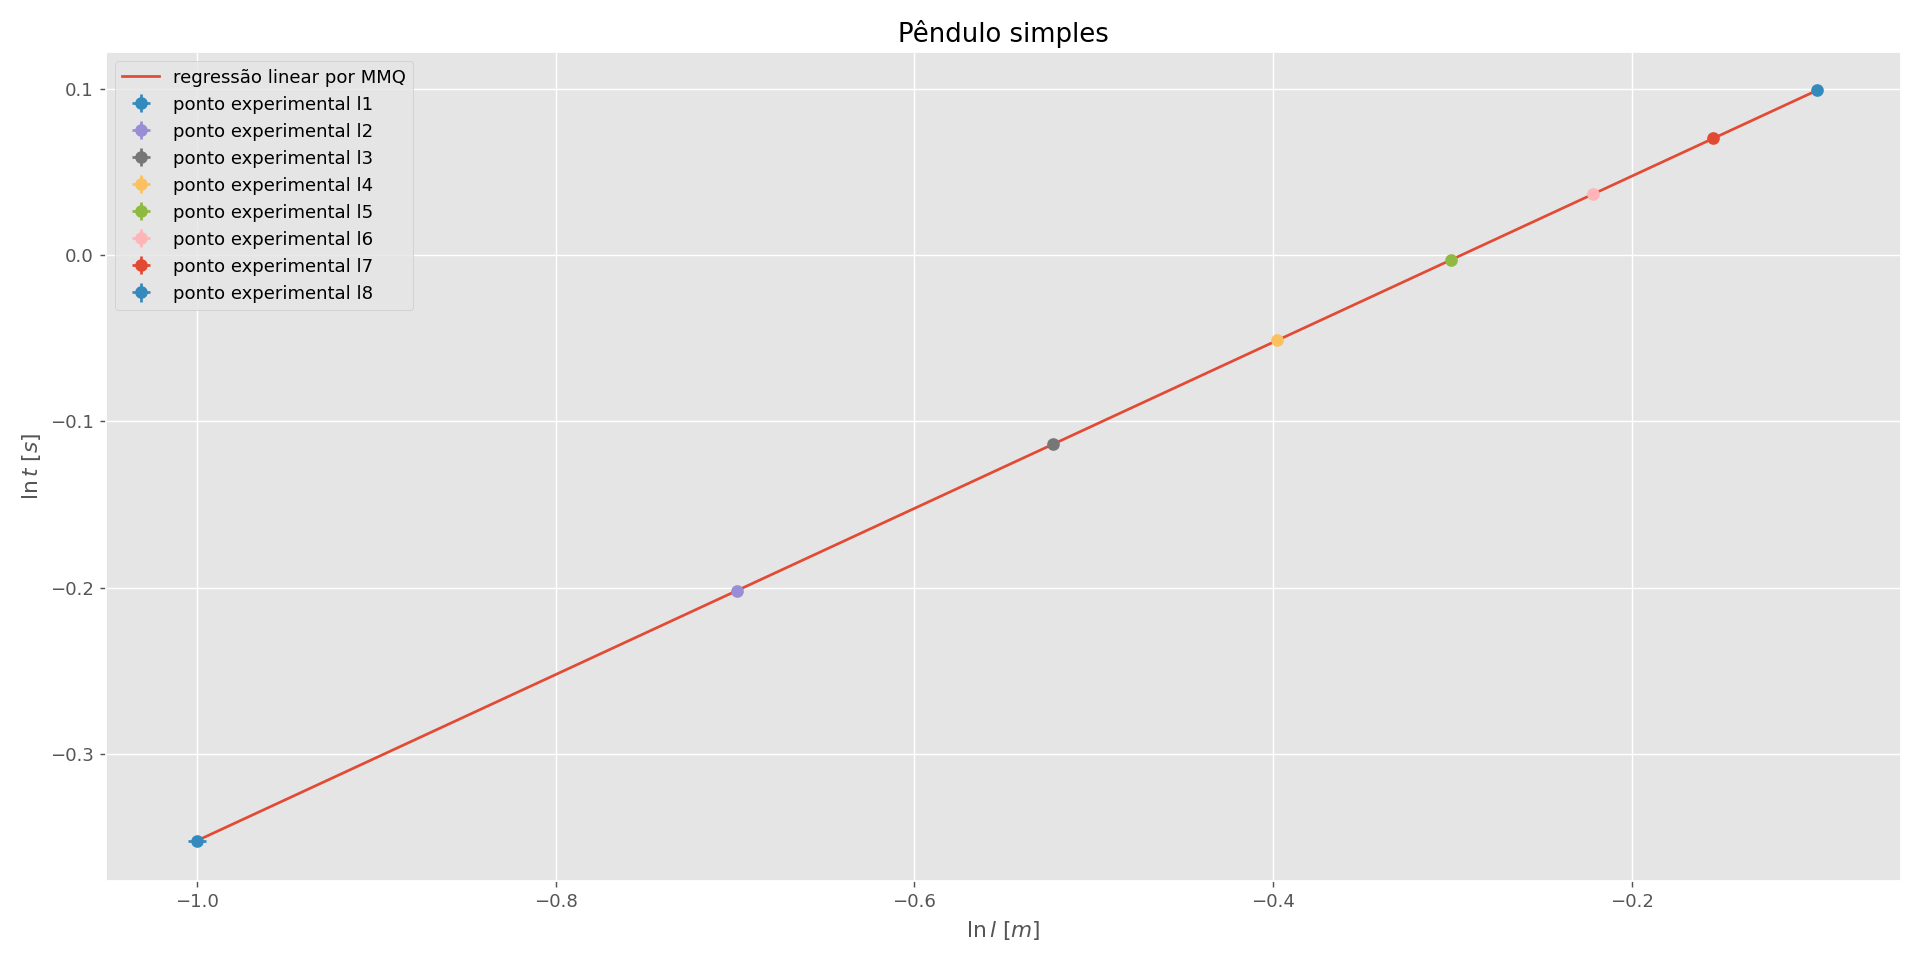
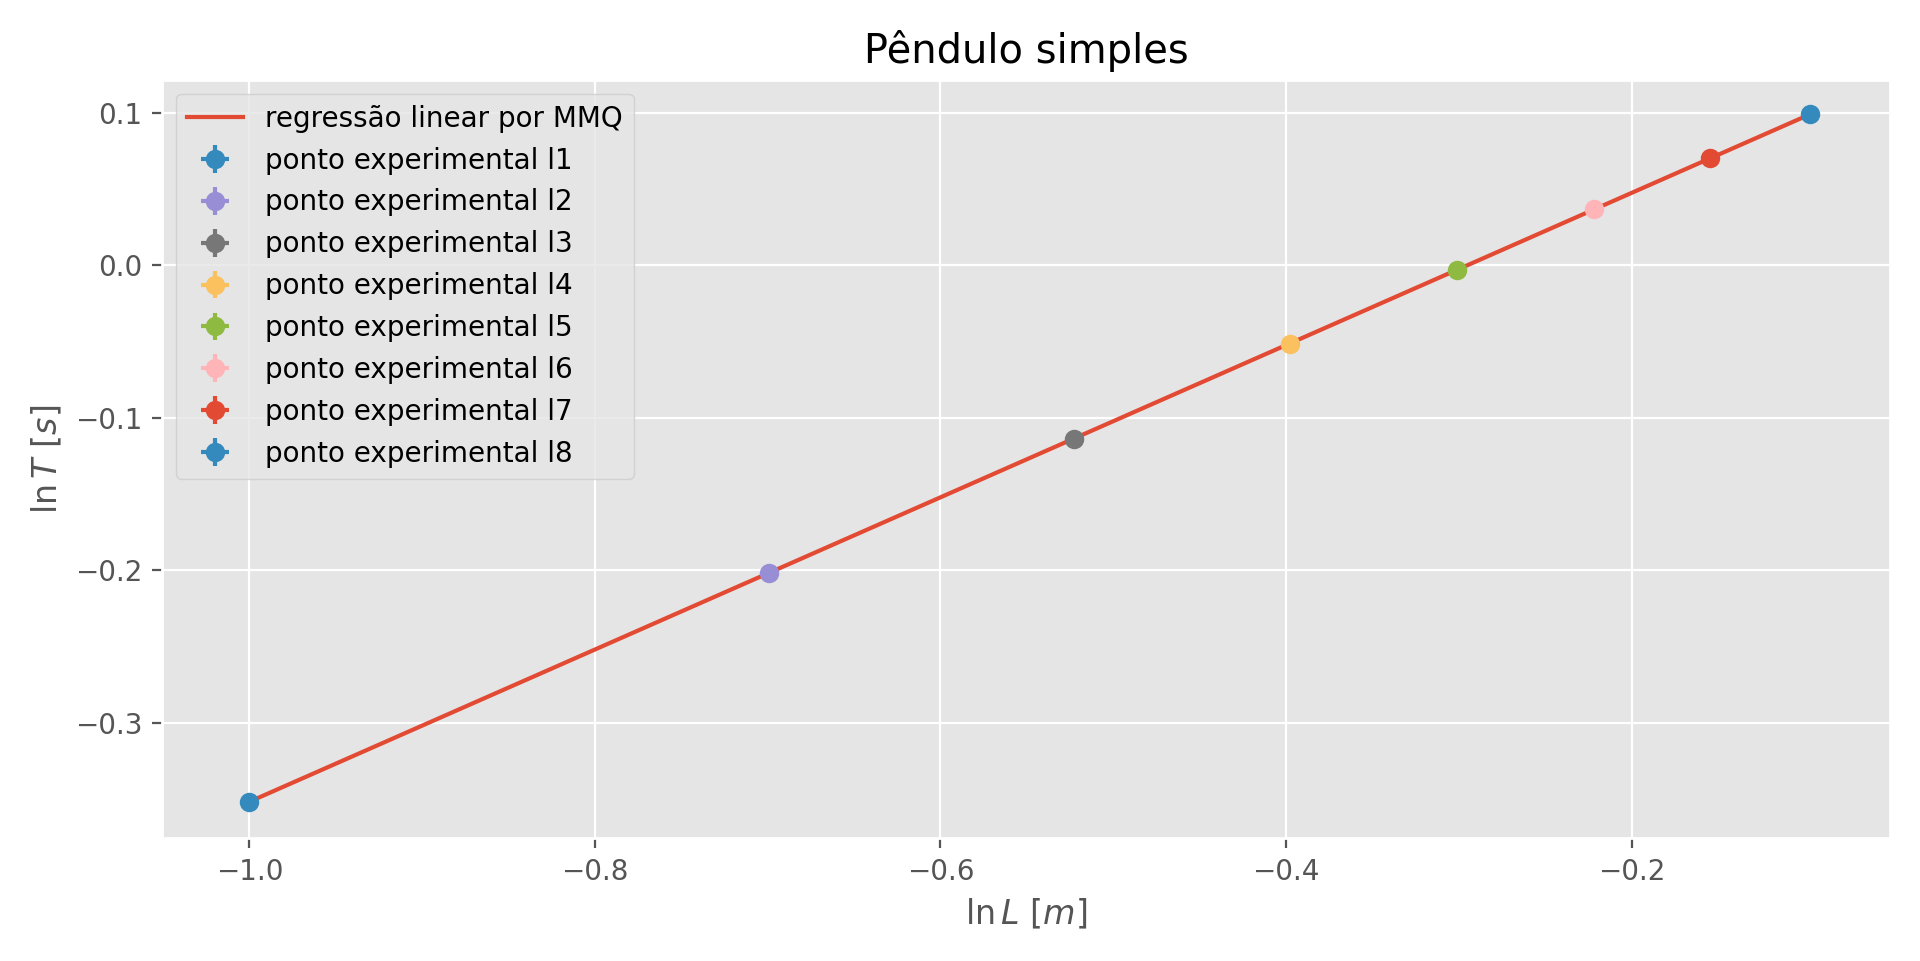
gráficos para a prova1

diff --git a/prova1/prova1.py b/prova1/prova1.py
@@ -5,10 +5,7 @@ import numpy as np
 import pandas as pd
 import matplotlib.pylab as plt
 ######################################################
-# ELISA RODRIGUES DE SOUSA COUTINHO - 11811FMD021
 # RICARDO TADEU OLIVEIRA CATTA PRETA - 11911FMT028
-# ROGÉRIO BUSO DE ANDRADE - 12011FMT009
-# THAYNÁ CAROLINE SABINO DE ASSUMPÇÃO - 11811FMD013
 # Laboratório de Física Básica 2
 # ------------Pêndulo simples------------------------------
 #######################################################
@@ -16,7 +13,7 @@ import matplotlib.pylab as plt
 # Importa os dados coletados do experimento com uma mola, considerando a primeira massa
 pendulo = pd.read_csv("pendulo_prova.csv", keep_default_na=True) #importa a lista de dados
 
-def mola_serie():
+def graficos_pendulo():
     """
     Função para plotar os gráficos do tempo em função da massa, juntamente com 
     seus valores linearizados.
@@ -54,8 +51,8 @@ def mola_serie():
     print("l_ea = ", l_ea)
 
     #linearizando os resultados
-    ln_t = np.log10(t)
-    ln_l = np.log10(l)
+    ln_t = np.log(t)
+    ln_l = np.log(l)
     print("ln_l = \n", ln_l)
     print("ln_t = \n", ln_t)
     print("ln_t*ln_l = \n", ln_t*ln_l)
@@ -114,21 +111,21 @@ def mola_serie():
     print("\n propaga_inc_l7 = ", propaga_inc_l7)
 
     plt.style.use('ggplot')
-    fig = plt.figure(dpi=130)
+    fig = plt.figure(dpi=200)
     axes1 = fig.add_subplot(1, 1, 1)
-    axes1.set_ylabel('$\ln{t}$ $[s]$')
-    axes1.set_xlabel('$\ln{l}$ $[m]$')
-    #axes1.set_ylabel('${t}$ $[s]$')
-    #axes1.set_xlabel('${l}$ $[m]$')
+    #axes1.set_ylabel('$\ln{T}$ $[s]$')
+    #axes1.set_xlabel('$\ln{L}$ $[m]$')
+    axes1.set_ylabel('${T}$ $[s]$')
+    axes1.set_xlabel('${L}$ $[m]$')
     #plt.plot(l, t, '-', label="L x T")
-    plt.plot(ln_l, y1, '-', label="regressão linear por MMQ")
+    #plt.plot(ln_l, y1, '-', label="regressão linear por MMQ")
     #Coloca a barra de erro%
     ls = ''
 
     #print("\n incerteza de m = \n", sm.sigma_m(erro_asso_t ,ln_m))
     #print("\n incerteza de b = \n", sm.sigma_b(erro_asso_t ,ln_m))
 
-    gravidade = ((2 * np.pi) / (10**(b1))) ** 2
+    gravidade = ((2 * np.pi) / (np.exp(b1))) ** 2
     print("gravidade = \n", gravidade)
 
     dg_dl = ((2 * np.pi) / np.mean(t)) ** 2
@@ -138,45 +135,45 @@ def mola_serie():
     delta_g = np.sqrt((dg_dl * delta_l) ** 2 + (dg_dt * delta_t) ** 2)
     print("delta_gravidade = \n", delta_g)
 
-    #for i in range(len(t)):
-    #    if i == 0:
-    #        plt.errorbar(l[i], t[i], xerr=l_ea[i],  yerr=t_ea[i], linestyle=ls, marker='o',label ="ponto experimental l1")  
-    #    elif i == 1:
-    #        plt.errorbar(l[i], t[i], xerr=l_ea[i],  yerr=t_ea[i], linestyle=ls, marker='o',label ="ponto experimental l2")
-    #    elif i == 2:
-    #        plt.errorbar(l[i], t[i], xerr=l_ea[i],  yerr=t_ea[i], linestyle=ls, marker='o',label ="ponto experimental l3")
-    #    elif i == 3:
-    #        plt.errorbar(l[i], t[i], xerr=l_ea[i],  yerr=t_ea[i], linestyle=ls, marker='o',label ="ponto experimental l4")
-    #    elif i == 4:
-    #        plt.errorbar(l[i], t[i], xerr=l_ea[i],  yerr=t_ea[i], linestyle=ls, marker='o',label ="ponto experimental l5")
-    #    elif i == 5:
-    #        plt.errorbar(l[i], t[i], xerr=l_ea[i],  yerr=t_ea[i], linestyle=ls, marker='o',label ="ponto experimental l6")
-    #    elif i == 6:
-    #        plt.errorbar(l[i], t[i], xerr=l_ea[i],  yerr=t_ea[i], linestyle=ls, marker='o',label ="ponto experimental l7")    
-    #    else:
-    #        plt.errorbar(l[i], t[i], xerr=l_ea[i],  yerr=t_ea[i], linestyle=ls, marker='o',label ="ponto experimental l8")
-
     for i in range(len(t)):
         if i == 0:
-            plt.errorbar(ln_l[i], ln_t[i], xerr=propaga_inc_lnl[i],  yerr=propaga_inc_lnt[i], linestyle=ls, marker='o',label ="ponto experimental l1")  
+            plt.errorbar(l[i], t[i], xerr=l_ea[i],  yerr=t_ea[i], linestyle=ls, marker='o',label ="ponto experimental l1")  
         elif i == 1:
-            plt.errorbar(ln_l[i], ln_t[i], xerr=propaga_inc_lnl[i],  yerr=propaga_inc_lnt[i], linestyle=ls, marker='o',label ="ponto experimental l2")
+            plt.errorbar(l[i], t[i], xerr=l_ea[i],  yerr=t_ea[i], linestyle=ls, marker='o',label ="ponto experimental l2")
         elif i == 2:
-            plt.errorbar(ln_l[i], ln_t[i], xerr=propaga_inc_lnl[i],  yerr=propaga_inc_lnt[i], linestyle=ls, marker='o',label ="ponto experimental l3")
+            plt.errorbar(l[i], t[i], xerr=l_ea[i],  yerr=t_ea[i], linestyle=ls, marker='o',label ="ponto experimental l3")
         elif i == 3:
-            plt.errorbar(ln_l[i], ln_t[i], xerr=propaga_inc_lnl[i],  yerr=propaga_inc_lnt[i], linestyle=ls, marker='o',label ="ponto experimental l4")
+            plt.errorbar(l[i], t[i], xerr=l_ea[i],  yerr=t_ea[i], linestyle=ls, marker='o',label ="ponto experimental l4")
         elif i == 4:
-            plt.errorbar(ln_l[i], ln_t[i], xerr=propaga_inc_lnl[i],  yerr=propaga_inc_lnt[i], linestyle=ls, marker='o',label ="ponto experimental l5")
+            plt.errorbar(l[i], t[i], xerr=l_ea[i],  yerr=t_ea[i], linestyle=ls, marker='o',label ="ponto experimental l5")
         elif i == 5:
-            plt.errorbar(ln_l[i], ln_t[i], xerr=propaga_inc_lnl[i],  yerr=propaga_inc_lnt[i], linestyle=ls, marker='o',label ="ponto experimental l6")
+            plt.errorbar(l[i], t[i], xerr=l_ea[i],  yerr=t_ea[i], linestyle=ls, marker='o',label ="ponto experimental l6")
         elif i == 6:
-            plt.errorbar(ln_l[i], ln_t[i], xerr=propaga_inc_lnl[i],  yerr=propaga_inc_lnt[i], linestyle=ls, marker='o',label ="ponto experimental l7")            
+            plt.errorbar(l[i], t[i], xerr=l_ea[i],  yerr=t_ea[i], linestyle=ls, marker='o',label ="ponto experimental l7")    
         else:
-            plt.errorbar(ln_l[i], ln_t[i], xerr=propaga_inc_lnl[i],  yerr=propaga_inc_lnt[i], linestyle=ls, marker='o',label ="ponto experimental l8")
+            plt.errorbar(l[i], t[i], xerr=l_ea[i],  yerr=t_ea[i], linestyle=ls, marker='o',label ="ponto experimental l8")
+
+    #for i in range(len(t)):
+    #    if i == 0:
+    #        plt.errorbar(ln_l[i], ln_t[i], xerr=propaga_inc_lnl[i],  yerr=propaga_inc_lnt[i], linestyle=ls, marker='o',label ="ponto experimental l1")  
+    #    elif i == 1:
+    #        plt.errorbar(ln_l[i], ln_t[i], xerr=propaga_inc_lnl[i],  yerr=propaga_inc_lnt[i], linestyle=ls, marker='o',label ="ponto experimental l2")
+    #    elif i == 2:
+    #        plt.errorbar(ln_l[i], ln_t[i], xerr=propaga_inc_lnl[i],  yerr=propaga_inc_lnt[i], linestyle=ls, marker='o',label ="ponto experimental l3")
+    #    elif i == 3:
+    #        plt.errorbar(ln_l[i], ln_t[i], xerr=propaga_inc_lnl[i],  yerr=propaga_inc_lnt[i], linestyle=ls, marker='o',label ="ponto experimental l4")
+    #    elif i == 4:
+    #        plt.errorbar(ln_l[i], ln_t[i], xerr=propaga_inc_lnl[i],  yerr=propaga_inc_lnt[i], linestyle=ls, marker='o',label ="ponto experimental l5")
+    #    elif i == 5:
+    #        plt.errorbar(ln_l[i], ln_t[i], xerr=propaga_inc_lnl[i],  yerr=propaga_inc_lnt[i], linestyle=ls, marker='o',label ="ponto experimental l6")
+    #    elif i == 6:
+    #        plt.errorbar(ln_l[i], ln_t[i], xerr=propaga_inc_lnl[i],  yerr=propaga_inc_lnt[i], linestyle=ls, marker='o',label ="ponto experimental l7")            
+    #    else:
+    #        plt.errorbar(ln_l[i], ln_t[i], xerr=propaga_inc_lnl[i],  yerr=propaga_inc_lnt[i], linestyle=ls, marker='o',label ="ponto experimental l8")
     
     fig.tight_layout()
     plt.title("Pêndulo simples")
     plt.legend(loc='best')
     plt.show()
 
-mola_serie()
+graficos_pendulo()
